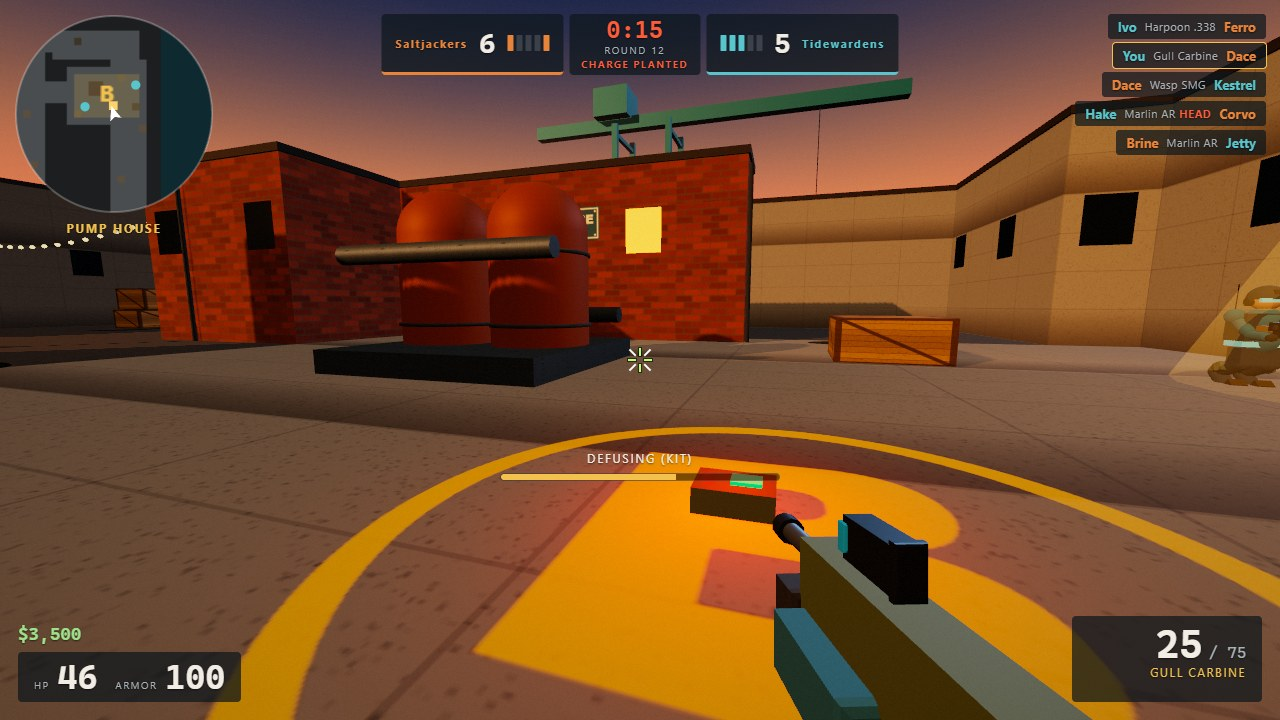
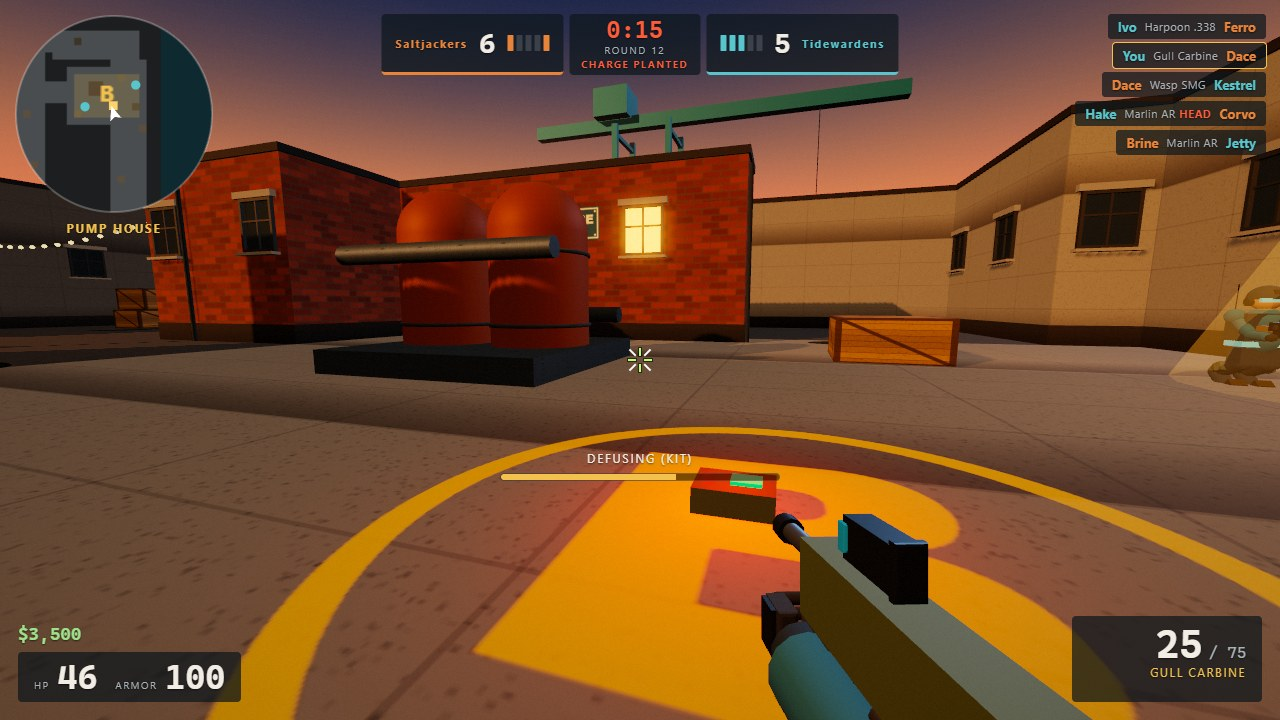
Framed windows, base courses and gloved hands
Windows are now instanced frames with a cross mullion, stone lintel and
sill; lit ones glow into the bloom and the rest mirror the dusk sky. Every
building gets a weathered base course. The first-person hands are gloves
with fingers wrapped round the grip, a cuff, a sleeve and a dive watch.

diff --git a/game/src/world.js b/game/src/world.js
@@ -145,9 +145,7 @@ function buildWalls(group, tex, rng) {
     new THREE.MeshStandardMaterial({ map: tex.darkConcrete, roughness: 0.9 }),
   ];
   const trim = new THREE.MeshStandardMaterial({ color: 0x2a2724, roughness: 0.8 });
-  const glassLit = new THREE.MeshStandardMaterial({ color: 0xffc070, emissive: 0xffa040, emissiveIntensity: 1.1 });
-  const glassDark = new THREE.MeshStandardMaterial({ color: 0x1c2630, roughness: 0.2, metalness: 0.6 });
-  const pane = new THREE.PlaneGeometry(1.1, 1.3);
+  const plinth = new THREE.MeshStandardMaterial({ map: tex.darkConcrete, color: 0x8a8580, roughness: 0.95 });
   for (let r = 0; r < ROWS; r += 1) {
     let c = 0;
     while (c < COLS) {
@@ -160,18 +158,53 @@ function buildWalls(group, tex, rng) {
       const height = WALL_H + (id % 3) * 0.8;
       group.add(mesh(tiledBox(w, height, CELL, 4), facades[id % facades.length], x, height / 2, z));
       group.add(mesh(new THREE.BoxGeometry(w + 0.12, 0.22, CELL + 0.12), trim, x, height + 0.11, z, false));
+      // a weathered base course grounds each building where it meets the quay
+      group.add(mesh(tiledBox(w + 0.06, 0.55, CELL + 0.06, 2), plinth, x, 0.275, z, false));
       c = end + 1;
     }
   }
-  // windows on faces that look onto the playable floor
+  windows(group, rng);
+}
+
+// Windows on faces that look onto the playable floor: glass behind a frame with a cross mullion, a
+// lintel and a sill. Some are lit from inside (bright enough to bloom); the rest mirror the dusk sky.
+// Every part is one InstancedMesh, so a hundred windows cost a handful of draw calls.
+function windows(group, rng) {
+  const glassLit = new THREE.MeshStandardMaterial({ color: 0xffc070, emissive: 0xffa04a, emissiveIntensity: 2.6 });
+  const glassDark = new THREE.MeshStandardMaterial({ color: 0x7d93a0, roughness: 0.12, metalness: 0.9, envMapIntensity: 2.4 });
+  const frame = new THREE.MeshStandardMaterial({ color: 0x3b3a37, roughness: 0.55, metalness: 0.3 });
+  const stone = new THREE.MeshStandardMaterial({ color: 0x8e877c, roughness: 0.9 });
+  const spots = [];
   for (let r = 0; r < ROWS; r += 1) for (let c = 0; c < COLS; c += 1) {
     if (kindAt(c, r) !== KIND.WALL) continue;
     for (const [dc, dr, rot] of [[0, 1, 0], [0, -1, Math.PI], [1, 0, Math.PI / 2], [-1, 0, -Math.PI / 2]]) {
       if (kindAt(c + dc, r + dr) !== KIND.FLOOR || !rng.chance(0.28)) continue;
-      const m = new THREE.Mesh(pane, rng.chance(0.4) ? glassLit : glassDark);
-      m.position.set(cellX(c) + dc * 1.01, 3.3, cellZ(r) + dr * 1.01);
-      m.rotation.y = rot;
-      group.add(m);
+      spots.push({ x: cellX(c) + dc * (CELL / 2), z: cellZ(r) + dr * (CELL / 2), rot, lit: rng.chance(0.4) });
+    }
+  }
+  // [width, height, depth, x, y, out-from-wall, material]
+  const parts = [
+    [1.1, 1.3, 0.02, 0, 0, 0.01, null],                  // glass
+    [1.26, 0.08, 0.1, 0, 0.69, 0.05, frame], [1.26, 0.08, 0.1, 0, -0.69, 0.05, frame],
+    [0.08, 1.46, 0.1, -0.59, 0, 0.05, frame], [0.08, 1.46, 0.1, 0.59, 0, 0.05, frame],
+    [0.05, 1.3, 0.06, 0, 0, 0.04, frame], [1.1, 0.05, 0.06, 0, 0.12, 0.04, frame],
+    [1.5, 0.18, 0.16, 0, 0.82, 0.08, stone],             // lintel
+    [1.44, 0.08, 0.24, 0, -0.78, 0.12, stone],           // sill
+  ];
+  const m4 = new THREE.Matrix4(); const q = new THREE.Quaternion(); const up = new THREE.Vector3(0, 1, 0);
+  const pos = new THREE.Vector3(); const one = new THREE.Vector3(1, 1, 1); const off = new THREE.Vector3();
+  for (const [w, h, d, px, py, out, mat] of parts) {
+    const sets = mat ? [[mat, spots]] : [[glassLit, spots.filter((s) => s.lit)], [glassDark, spots.filter((s) => !s.lit)]];
+    for (const [material, list] of sets) {
+      const inst = new THREE.InstancedMesh(new THREE.BoxGeometry(w, h, d), material, list.length);
+      list.forEach((s, i) => {
+        q.setFromAxisAngle(up, s.rot);
+        off.set(px, py, out).applyQuaternion(q);
+        pos.set(s.x + off.x, 3.3 + off.y, s.z + off.z);
+        inst.setMatrixAt(i, m4.compose(pos, q, one));
+      });
+      inst.castShadow = !!mat; inst.receiveShadow = true;
+      group.add(inst);
     }
   }
 }

diff --git a/game/src/viewmodel.js b/game/src/viewmodel.js
@@ -18,12 +18,15 @@ export function createViewmodel(team, environment = null) {
   const rig = new THREE.Group();
   rig.scale.setScalar(0.62);
   scene.add(rig);
-  const glove = new THREE.MeshStandardMaterial({ color: 0x2a2a2a, roughness: 0.8 });
-  const sleeve = new THREE.MeshStandardMaterial({ color: TEAMS[team].cloth, roughness: 0.85 });
-  const handR = new THREE.Group();
-  handR.add(box(0.07, 0.08, 0.1, glove, 0, -0.05, 0.02), box(0.09, 0.09, 0.3, sleeve, 0.01, -0.07, 0.22));
-  const handL = new THREE.Group();
-  handL.add(box(0.07, 0.07, 0.1, glove, 0, 0, 0), box(0.09, 0.09, 0.3, sleeve, -0.02, -0.03, 0.2));
+  const glove = new THREE.MeshStandardMaterial({ color: 0x2b2a28, roughness: 0.85 });
+  const knuckle = new THREE.MeshStandardMaterial({ color: 0x1a1a1a, roughness: 0.5 });
+  const sleeve = new THREE.MeshStandardMaterial({ color: TEAMS[team].cloth, roughness: 0.9 });
+  const cuff = new THREE.MeshStandardMaterial({ color: TEAMS[team].vest, roughness: 0.8 });
+  const handR = gloveHand(glove, knuckle, sleeve, cuff, 1);
+  const handL = gloveHand(glove, knuckle, sleeve, cuff, -1);
+  const watch = cyl(0.026, 0.012, new THREE.MeshStandardMaterial({ color: 0x15191c, roughness: 0.3, metalness: 0.7 }), 0.03, -0.035, 0.09, 16);
+  watch.rotation.set(0, 0, Math.PI / 2);
+  handL.add(watch); // a dive watch: the one thing on the support arm that catches the light
   rig.add(handR, handL);
 
   const models = buildModels();
@@ -99,6 +102,30 @@ export function createViewmodel(team, environment = null) {
   }
 
   return { onEvent, update, render };
+}
+
+// A gloved hand closed round a grip at the group origin: palm on the outside, four fingers wrapped
+// across the front, thumb over the top, a padded knuckle guard, then the wrist cuff and a sleeve that
+// runs back out of frame. side is 1 for the right hand, -1 for the left.
+function gloveHand(glove, knuckle, sleeve, cuff, side) {
+  const g = new THREE.Group();
+  g.add(box(0.032, 0.09, 0.095, glove, 0.036 * side, -0.045, 0.0));
+  g.add(box(0.012, 0.075, 0.07, knuckle, 0.054 * side, -0.04, -0.005));
+  const finger = new THREE.CapsuleGeometry(0.0125, 0.05, 3, 8).rotateZ(Math.PI / 2);
+  for (let i = 0; i < 4; i += 1) {
+    const f = new THREE.Mesh(finger, glove);
+    f.position.set(0.006 * side, -0.012 - i * 0.025, -0.047 + i * 0.003);
+    g.add(f);
+  }
+  const thumb = new THREE.Mesh(new THREE.CapsuleGeometry(0.013, 0.05, 3, 8).rotateX(Math.PI / 2), glove);
+  thumb.position.set(-0.026 * side, 0.004, -0.012);
+  g.add(thumb);
+  const wrist = new THREE.Mesh(new THREE.CylinderGeometry(0.047, 0.05, 0.05, 14).rotateX(Math.PI / 2), cuff);
+  wrist.position.set(0.018 * side, -0.06, 0.08);
+  const arm = new THREE.Mesh(new THREE.CylinderGeometry(0.05, 0.062, 0.32, 14).rotateX(Math.PI / 2), sleeve);
+  arm.position.set(0.022 * side, -0.07, 0.26);
+  g.add(wrist, arm);
+  return g;
 }
 
 // Weapon models. Built once per match from solids; the rig above only shows one at a time.
